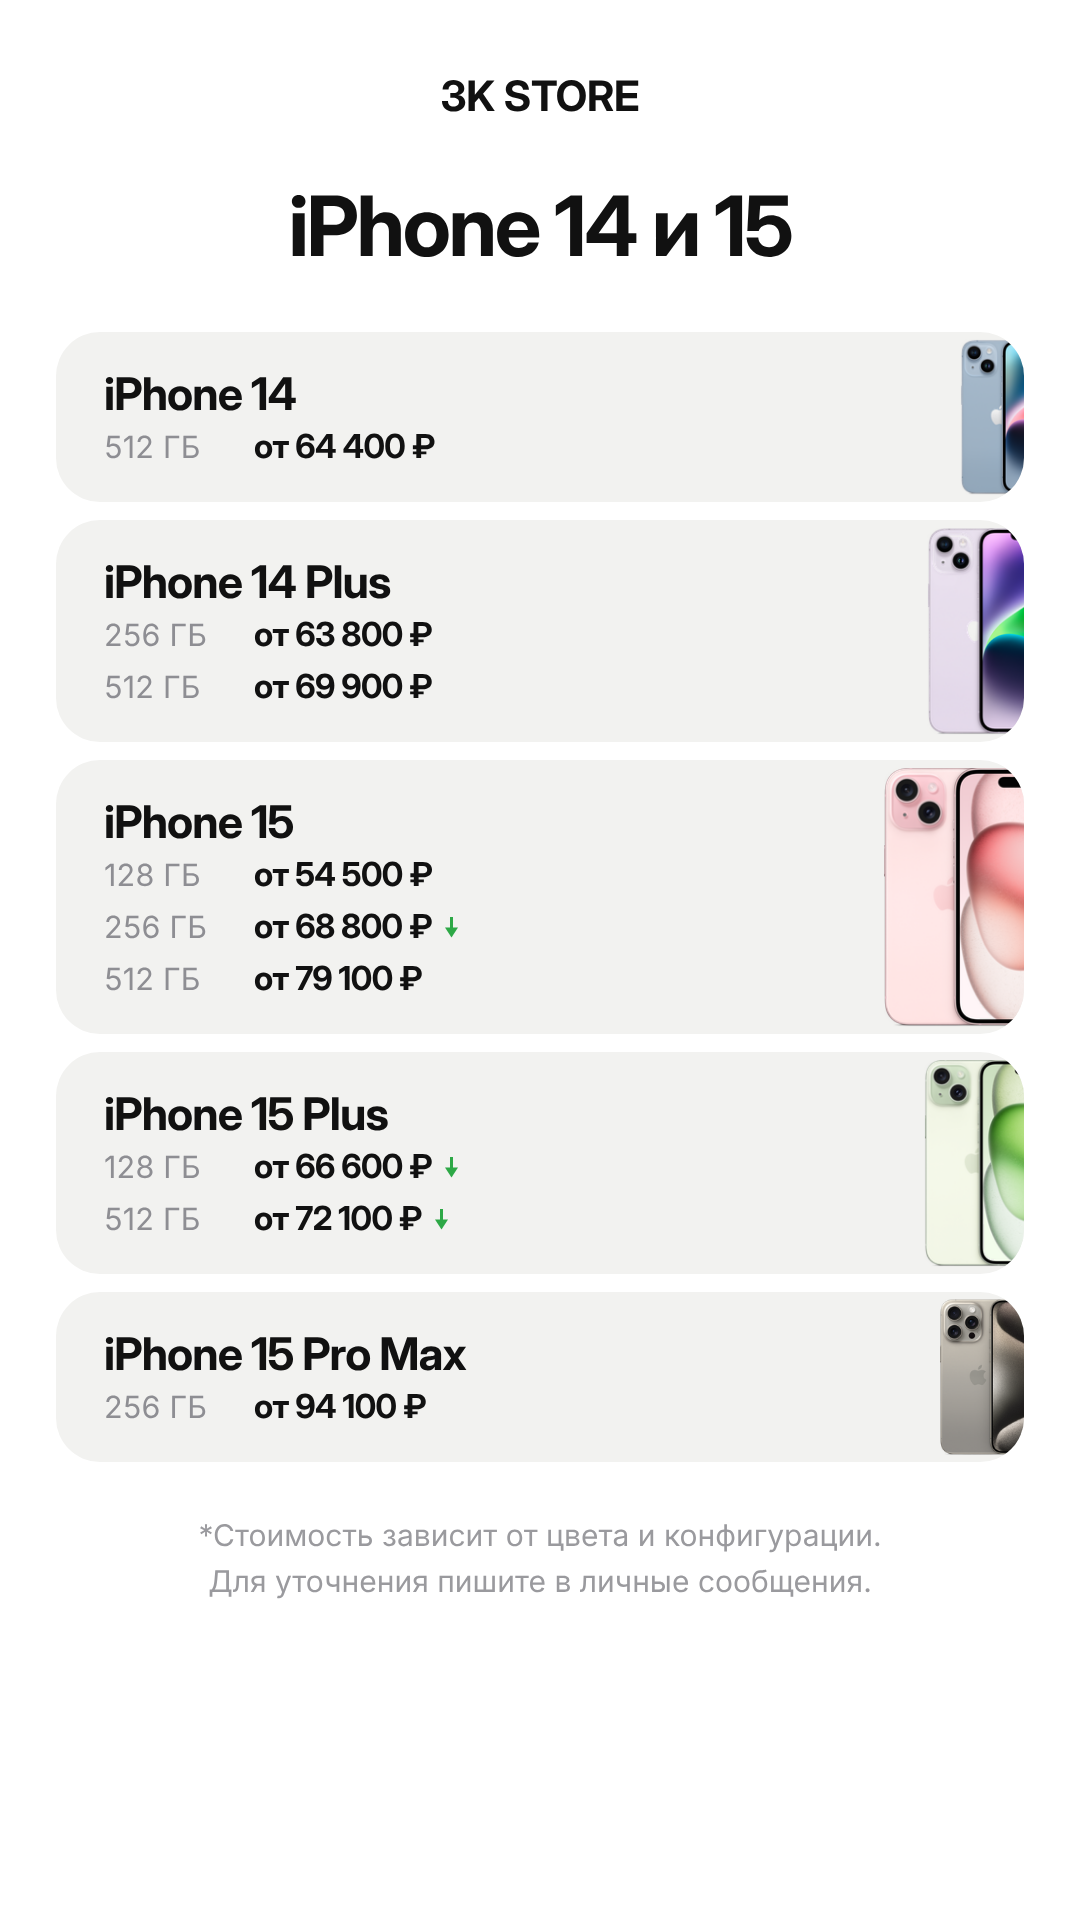
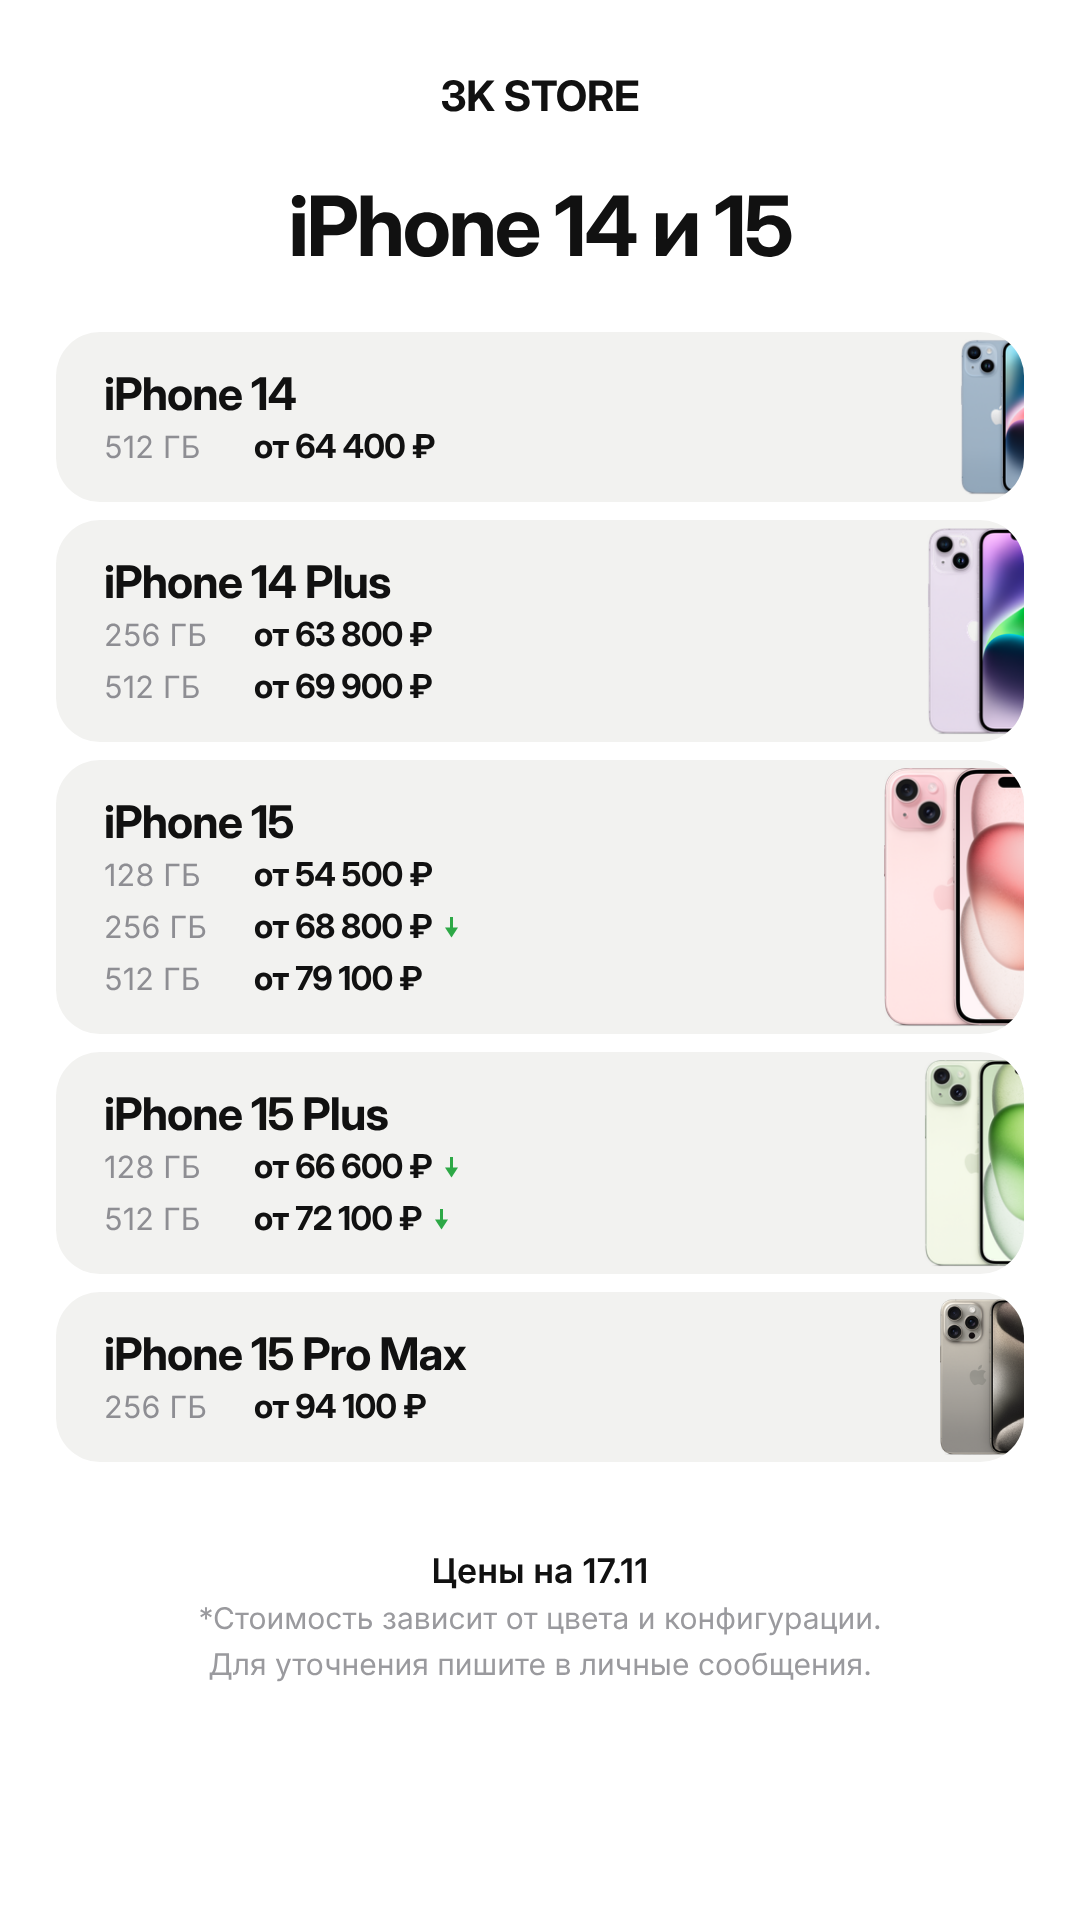
Дата на прайсах и iPhone Duo с фото из образца
Claude-Session: https://claude.ai/code/session_014zc7qX9TFUN7T7gG8PEUD3

Changed region(s): [[0.1833, 0.7812, 0.7944, 0.875]]

diff --git a/price/template.html b/price/template.html
@@ -36,7 +36,9 @@
   .large .arrow { width: 19px; height: 28px; margin-left: 14px; }
   .large .brand { margin-top: 112px; }
   .large .title { margin-top: 70px; }
+  .foot .date { color: #111; font-weight: 600; font-size: 34px; }
   .large .cards { gap: 28px; margin-top: 70px; }
+  .hero { margin-top: 36px; width: 960px; display: block; }
   .foot {
     margin-top: 50px; text-align: center;
     font-family: 'Inter', sans-serif; font-size: 30px; line-height: 46px; color: #9a9a9e;
@@ -47,7 +49,8 @@
   <div class="brand">3K STORE</div>
   <div class="title" id="title"></div>
   <div class="cards" id="cards"></div>
-  <div class="foot">*Стоимость зависит от цвета и конфигурации.<br>Для уточнения пишите в личные сообщения.</div>
+  <img class="hero" id="hero" hidden>
+  <div class="foot"><span class="date" id="date"></span><br>*Стоимость зависит от цвета и конфигурации.<br>Для уточнения пишите в личные сообщения.</div>
 
 <script>
 function draw(data) {
@@ -55,6 +58,8 @@ function draw(data) {
   const arrow = '<svg class="arrow" viewBox="0 0 15 21"><rect x="6" y="0" width="3" height="11" fill="#2da846"/><path d="M1 10.5h13L7.5 20.5z" fill="#2da846"/></svg>';
   if (data.size) document.body.classList.add(data.size);
   document.getElementById('title').textContent = data.title;
+  document.getElementById('date').textContent = 'Цены на ' + data.date.slice(0, 5);
+  if (data.hero) Object.assign(document.getElementById('hero'), { src: `phones/${data.hero}.png`, hidden: false });
   document.getElementById('cards').innerHTML = data.models.map(m => `
     <div class="card">
       ${m.phone ? `<div class="phone"><img src="phones/${m.phone}.png"></div>` : ""}

diff --git a/price/render.js b/price/render.js
@@ -9,7 +9,7 @@ const path = require('path');
   await page.goto('file://' + path.join(__dirname, 'template.html'));
   await page.addScriptTag({ path: path.join(__dirname, name + '.js') });
   await page.evaluate(() => draw(window.PRICE));
-  await page.evaluate(() => Promise.all([document.fonts.ready, ...[...document.images].map(i => i.decode())]));
+  await page.evaluate(() => Promise.all([document.fonts.ready, ...[...document.images].filter(i => i.getAttribute("src")).map(i => i.decode())]));
   await page.screenshot({ path: path.join(__dirname, 'out', name + '.png') });
   await browser.close();
   console.log('out/' + name + '.png');

diff --git a/price/iphone-duo.js b/price/iphone-duo.js
@@ -4,12 +4,13 @@ window.PRICE = {
   title: 'iPhone Duo',
   date: '17.11.2026',
   size: 'large',
+  hero: 'iphone-duo-hero',
   models: [
     { name: 'iPhone Duo', rows: [
-      { mem: '256 ГБ', price: 209000 },
-      { mem: '512 ГБ', price: 240800 },
-      { mem: '1 ТБ', price: 318600 },
-      { mem: '2 ТБ', price: 340200 },
+      { mem: '256 ГБ', price: 209000, prev: 215700 },
+      { mem: '512 ГБ', price: 240800, prev: 230200 },
+      { mem: '1 ТБ', price: 318600, prev: 324100 },
+      { mem: '2 ТБ', price: 340200, prev: 352200 },
     ]},
   ],
 };
